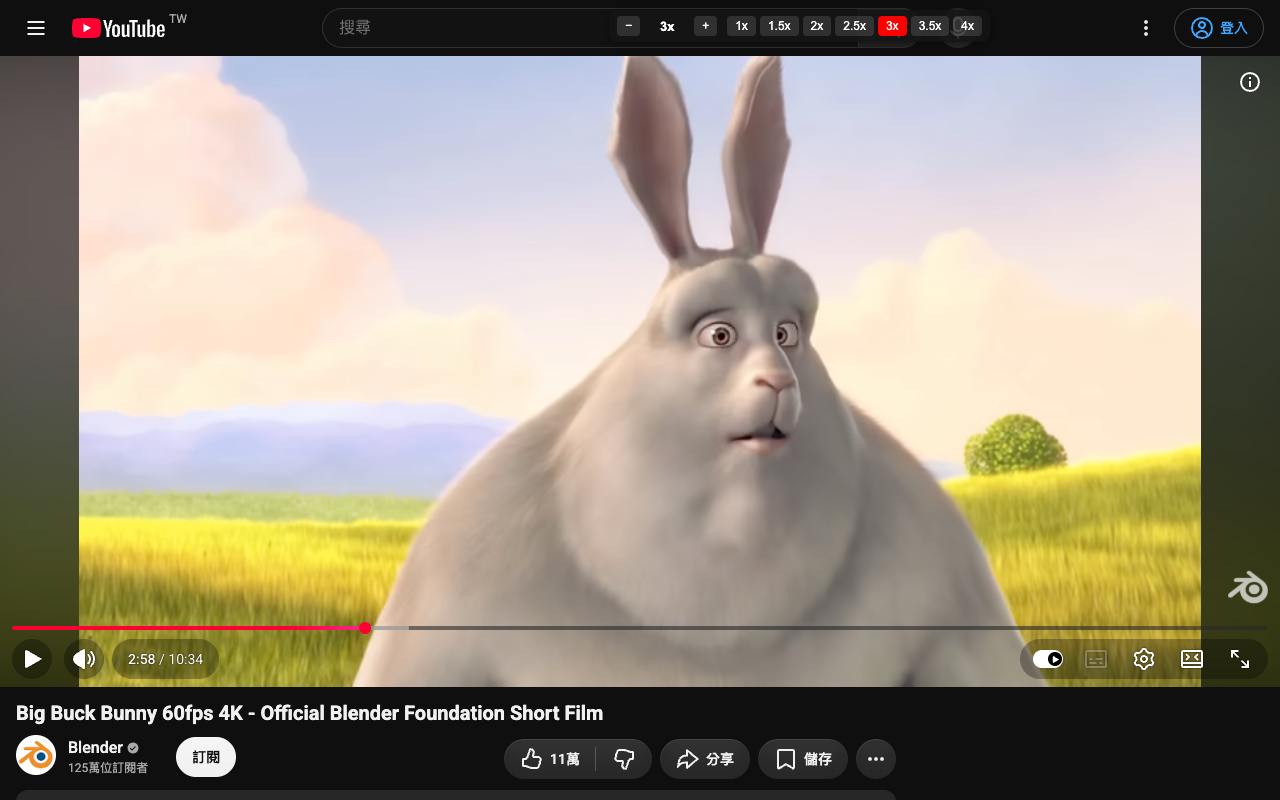
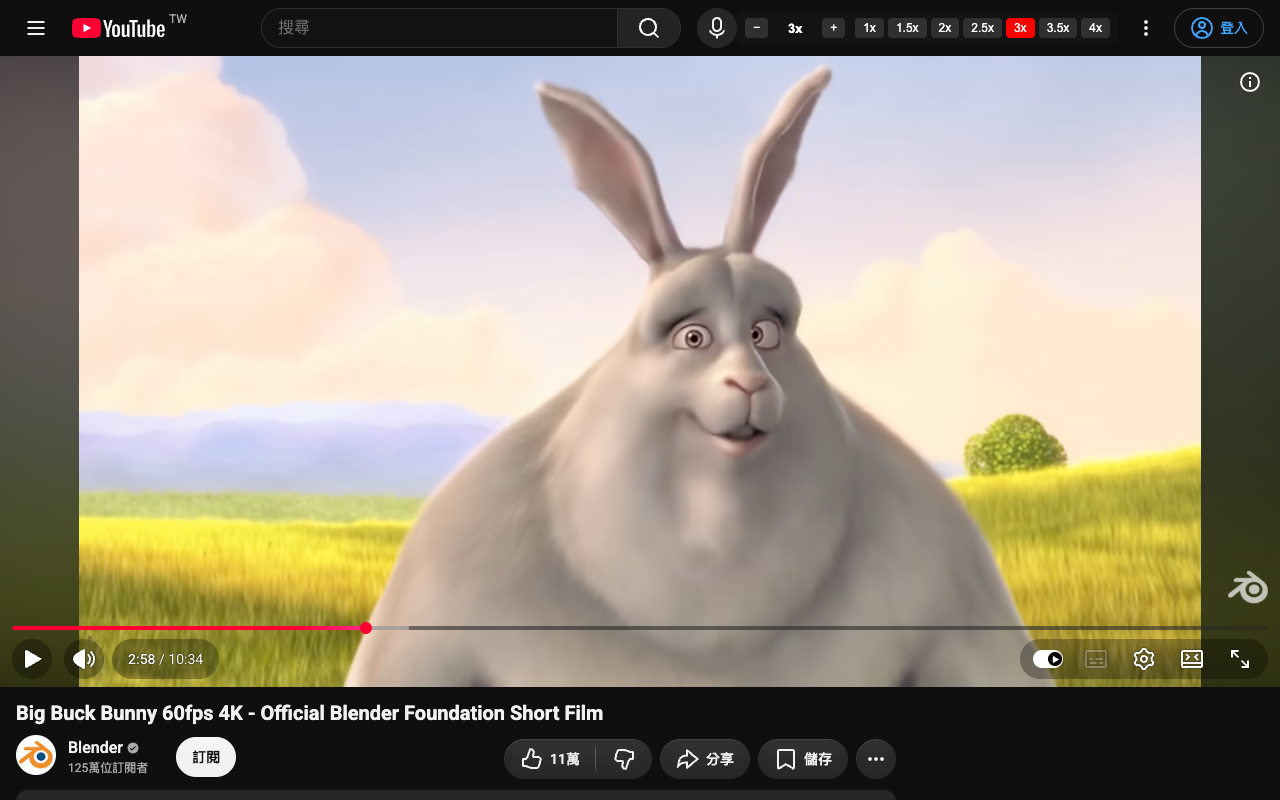
Dock speed panel into YouTube masthead
The fixed right:290px position overlapped the search box on narrower
windows. The panel now sits in the masthead between search and the
right-side buttons, and becomes floating once dragged.

diff --git a/content.js b/content.js
@@ -89,9 +89,33 @@
     });
     panelEl.appendChild(presetWrap);
 
-    document.body.appendChild(panelEl);
+    mountPanel();
     makeDraggable(panelEl);
     updateLabel(video.playbackRate);
+  }
+
+  // 預設嵌進 YouTube 頂端列(搜尋框與右側按鈕之間),拖曳後改為浮動
+  function mountPanel() {
+    if (!panelEl.classList.contains("yts-floating")) {
+      const end = document.querySelector("ytd-masthead #end");
+      if (end) {
+        if (panelEl.parentElement !== end) end.prepend(panelEl);
+        panelEl.classList.add("yts-docked");
+        return;
+      }
+    }
+    if (!document.body.contains(panelEl)) document.body.appendChild(panelEl);
+  }
+
+  function undock(el) {
+    if (!el.classList.contains("yts-docked")) return;
+    const rect = el.getBoundingClientRect();
+    el.classList.remove("yts-docked");
+    el.classList.add("yts-floating");
+    el.style.left = rect.left + "px";
+    el.style.top = rect.top + "px";
+    el.style.right = "auto";
+    document.body.appendChild(el);
   }
 
   function makeDraggable(el) {
@@ -100,6 +124,7 @@
     let offsetY = 0;
     el.addEventListener("mousedown", (e) => {
       if (e.target.tagName === "BUTTON") return;
+      undock(el);
       dragging = true;
       const rect = el.getBoundingClientRect();
       offsetX = e.clientX - rect.left;
@@ -134,9 +159,7 @@
   function scan() {
     const video = document.querySelector("video");
     if (video && video !== currentVideo) attachToVideo(video);
-    if (video && panelEl && !document.body.contains(panelEl)) {
-      document.body.appendChild(panelEl);
-    }
+    if (video && panelEl) mountPanel();
   }
 
   document.addEventListener("keydown", (e) => {

diff --git a/style.css b/style.css
@@ -17,6 +17,13 @@
   user-select: none;
 }
 
+#yts-panel.yts-docked {
+  position: static;
+  flex-shrink: 0;
+  margin-right: 8px;
+  box-shadow: none;
+}
+
 #yts-panel button {
   background: rgba(255, 255, 255, 0.12);
   color: #fff;

diff --git a/README.md b/README.md
@@ -12,7 +12,7 @@
 - `−` / `+` 以 0.25x 為單位微調（範圍 0.25x–16x）
 - 快捷鍵：`Alt + .` 加速、`Alt + ,` 減速
 - 自動記住上次使用的倍速，下一部影片沿用
-- 面板可拖曳到任意位置
+- 面板預設嵌在 YouTube 頂端列，也可拖曳到任意位置
 
 ## 安裝（開發者模式）
 
@@ -23,7 +23,7 @@
 2. 開啟 Chrome，前往 `chrome://extensions`
 3. 打開右上角的「開發人員模式」
 4. 點「載入未封裝項目」，選擇這個資料夾
-5. 打開任一 YouTube 影片，右上角就會出現倍速面板
+5. 打開任一 YouTube 影片，頂端列搜尋框右邊就會出現倍速面板
 
 ## 自訂
 

diff --git a/store/listing.md b/store/listing.md
@@ -17,7 +17,7 @@ YouTube 原生最快只能 2 倍速。這個擴充功能在頁面上加一個小
 • −／+ 按鈕以 0.25x 為單位微調
 • 快捷鍵：Alt + . 加速、Alt + , 減速
 • 自動記住上次的倍速，下一部影片直接沿用
-• 面板可拖曳到任意位置
+• 面板預設嵌在 YouTube 頂端列，也可拖曳到任意位置
 
 不收集任何資料、不連線任何伺服器，原始碼公開於 GitHub。
 
